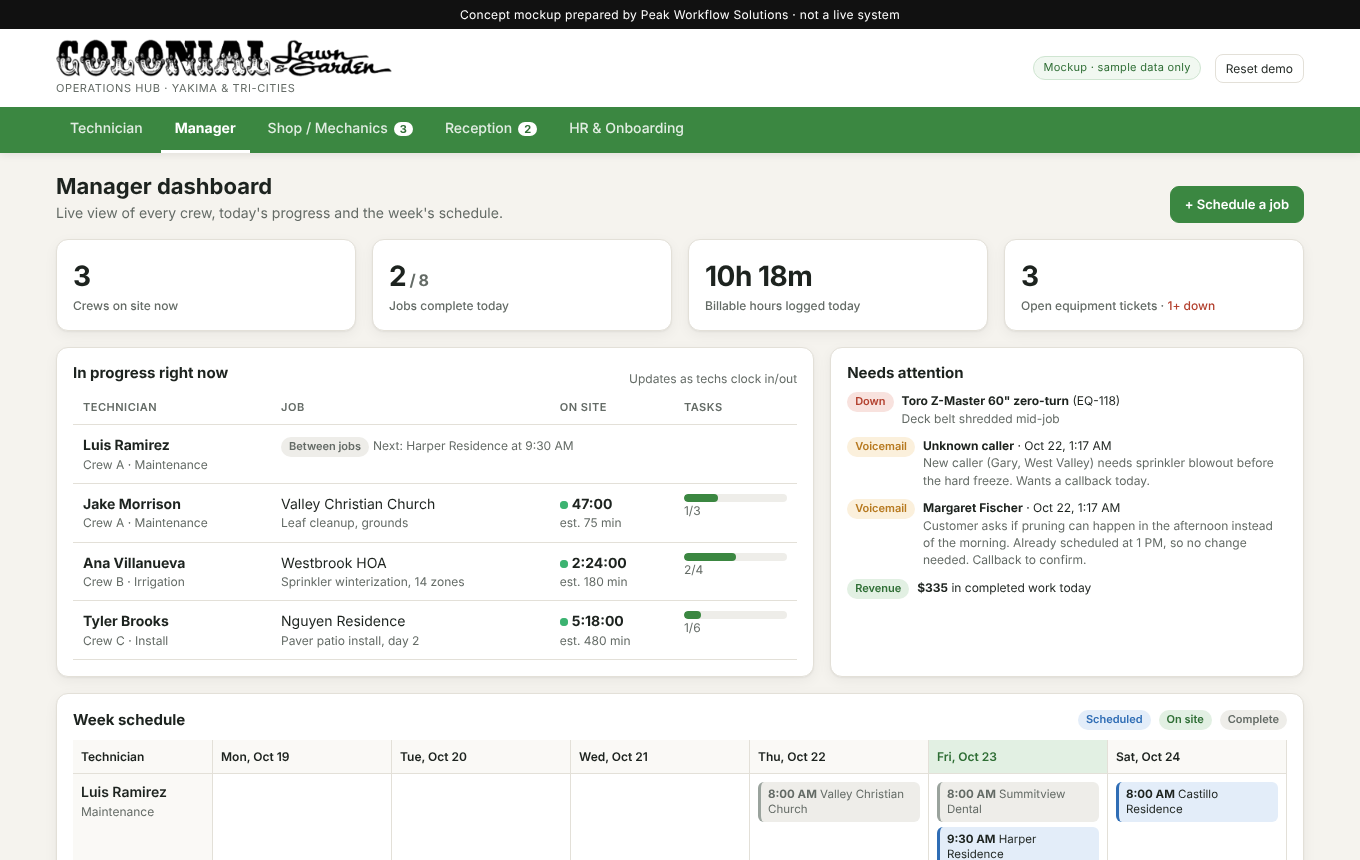
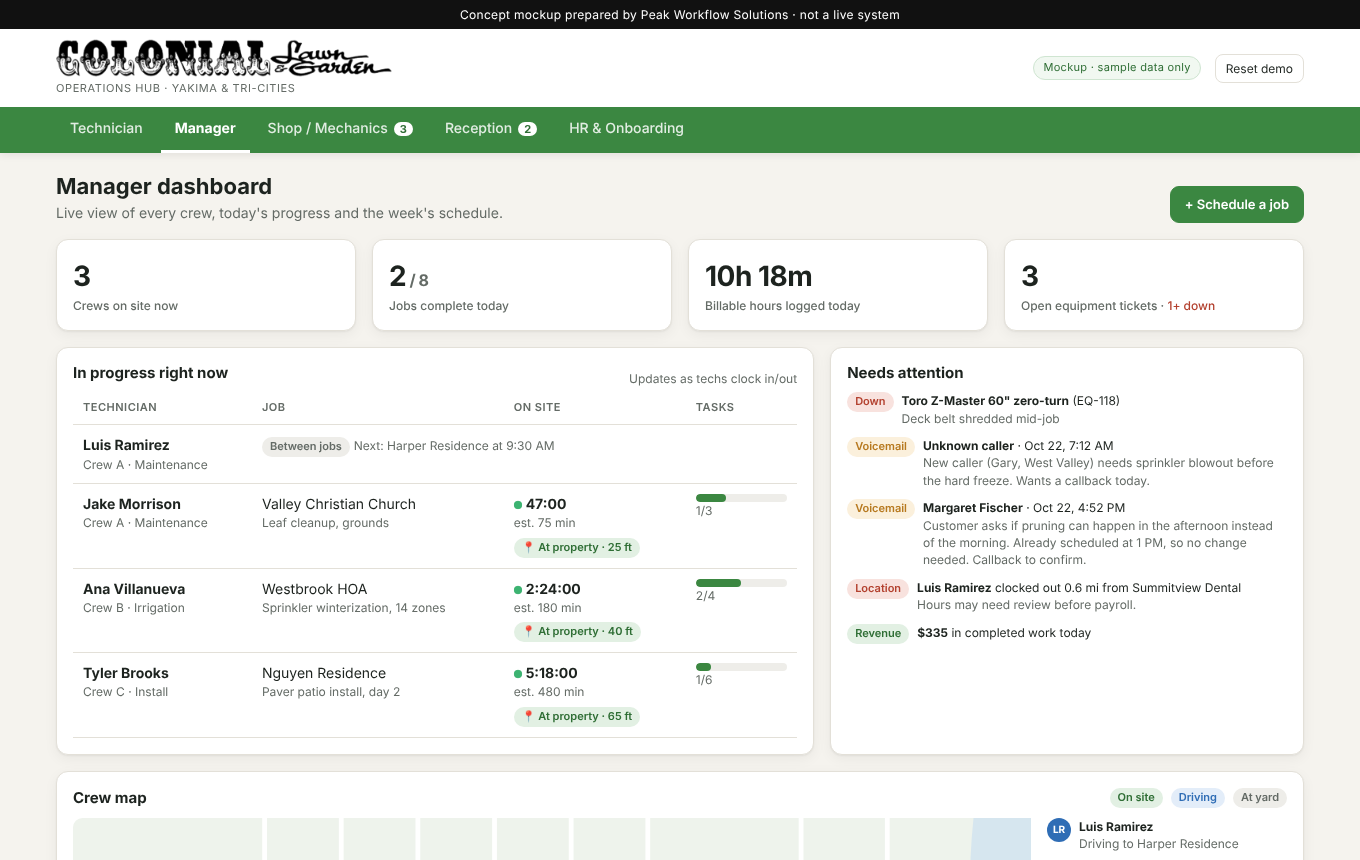
Colonial ops mockup: technician location check and crew map
Clock-in/out records a location and compares it to the property
(500 ft zone), managers get a crew map and location flags, and HR
onboarding adds a location policy acknowledgment.

Claude-Session: https://claude.ai/code/session_01D3AExL9JmpZMVhc6CVVsAk

diff --git a/projects/colonial-lawn-garden-ops/index.html b/projects/colonial-lawn-garden-ops/index.html
@@ -183,6 +183,14 @@ mark{background:#ffe79a;padding:0 1px;border-radius:2px}
 .x{background:none;border:0;font-size:22px;cursor:pointer;color:var(--muted);line-height:1}
 .toast{position:fixed;bottom:20px;left:50%;transform:translateX(-50%) translateY(20px);background:var(--green-900);color:#fff;padding:10px 16px;border-radius:10px;opacity:0;transition:.25s;z-index:60;pointer-events:none;max-width:calc(100% - 32px)}
 .toast.show{opacity:1;transform:translateX(-50%)}
+.map-layout{display:grid;grid-template-columns:minmax(0,1fr) 240px;gap:16px;align-items:start}
+@media (max-width:900px){.map-layout{grid-template-columns:minmax(0,1fr)}}
+.map-wrap svg{width:100%;height:auto;display:block}
+.map-st{font-size:13px;fill:#8b938d;font-weight:500}
+.map-lbl{font-size:14px;fill:#2b312d;font-weight:600;paint-order:stroke;stroke:#eef3ec;stroke-width:4px}
+.map-ini{font-size:12px;font-weight:700;fill:#fff;pointer-events:none}
+.map-pin{cursor:pointer}
+@media (prefers-reduced-motion:reduce){.map-pin animate{display:none}.pulse{animation:none}}
 .kv{display:grid;grid-template-columns:120px 1fr;gap:6px 12px;font-size:13px}
 .kv dt{color:var(--muted)}
 .kv dd{margin:0}
@@ -216,7 +224,14 @@ mark{background:#ffe79a;padding:0 1px;border-radius:2px}
    Everything is sample data, stored in this browser only.
    ========================================================= */
 
-const STORE_KEY = 'clg-ops-demo-v1';
+const STORE_KEY = 'clg-ops-demo-v2';
+
+/* ---------- location (schematic map units; 1 unit ≈ 26 ft) ---------- */
+const FT_PER_UNIT = 26.4, GEOFENCE_FT = 500;
+const YARD = {x:880, y:452};
+function near(p, d){ const a = Math.random()*2*Math.PI; return {x:p.x+Math.cos(a)*d, y:p.y+Math.sin(a)*d}; }
+function distFt(a,b){ return Math.hypot(a.x-b.x, a.y-b.y)*FT_PER_UNIT; }
+function fmtDist(ft){ return ft<1000 ? Math.max(5,Math.round(ft/5)*5)+' ft' : (ft/5280).toFixed(1)+' mi'; }
 const DAY = 86400000;
 
 /* ---------- date helpers ---------- */
@@ -240,7 +255,7 @@ function seed(){
   const now = Date.now();
   // Today's times anchored to the clock on the wall; falls back to "X ago" if that time hasn't happened yet.
   const at = (hhmm, ago) => { const [h,m]=hhmm.split(':').map(Number); const d=new Date(TODAY); d.setHours(h,m,0,0); return d.getTime() < now-5*60e3 ? d.getTime() : now-ago; };
-  const yest = hhmm => at(hhmm,0) - DAY;
+  const yest = hhmm => { const [h,m]=hhmm.split(':').map(Number); const d=new Date(TODAY); d.setDate(d.getDate()-1); d.setHours(h,m,0,0); return d.getTime(); };
   const callAt = hhmm => { const t = at(hhmm,-1); return t > now ? yest(hhmm) : t; };
   const techs = [
     {id:'T1', name:'Luis Ramirez',   crew:'Crew A · Maintenance', truck:'Truck 3'},
@@ -258,6 +273,8 @@ function seed(){
     C7:{name:'Valley Christian Church', contact:'Facilities: Dan Kerr', phone:'(509) 555-0195', address:'7700 W Nob Hill Blvd, Yakima', notes:'Avoid Wednesday evenings (youth group parking).', plan:'Commercial maintenance contract'},
     C8:{name:'Castillo Residence', contact:'Elena Castillo', phone:'(509) 555-0127', address:'602 Conestoga Blvd, Yakima', notes:'Asked for estimate on spring overseed.', plan:'Weekly maintenance (Apr–Oct)'},
   };
+  const POS = {C1:[600,92], C2:[505,150], C3:[625,378], C4:[225,178], C5:[478,205], C6:[680,330], C7:[232,400], C8:[170,300]};
+  for(const [k,[x,y]] of Object.entries(POS)) clients[k].pos = {x,y};
   const S = (name,price,tasks)=>({name,price,tasks});
   let jid = 1000;
   const J = (off,start,est,techId,clientId,services,extra={})=>({id:'J'+(++jid), date:dayKey(off), start, est, techId, clientId, services, status:'scheduled', clockIn:null, clockOut:null, done:[], ...extra});
@@ -284,6 +301,10 @@ function seed(){
     J(3,'08:00',60,'T2','C2',[S('Weekly commercial maintenance',140,['Mow','Blow lot'])]),
     J(3,'10:00',90,'T4','C8',[S('Spring overseed estimate walk',0,['Measure lawn','Photos for quote'])]),
   ];
+  jobs.forEach(j=>{ const p = clients[j.clientId].pos;
+    if(j.clockIn) j.inLoc = near(p, 0.8+Math.random()*2);
+    if(j.clockOut) j.outLoc = near(p, 0.8+Math.random()*2); });
+  jobs[0].outLoc = {x:clients.C2.pos.x+112, y:clients.C2.pos.y+38}; // clocked out from the road
   const equipment = [
     {id:'M-07', name:'Toro Z-Master 60" zero-turn', type:'Mower', status:'Down'},
     {id:'M-04', name:'Exmark Lazer Z 52"', type:'Mower', status:'OK'},
@@ -354,6 +375,7 @@ function seed(){
     ['dl','Driver\'s license copy + driving record check'],
     ['dt','Drug & alcohol policy acknowledgment'],
     ['uni','Uniform & PPE issued (boots, eye/ear protection)'],
+    ['gps','Location policy acknowledgment (tracked only while clocked in)'],
   ];
   const trainings = [
     ['saf','General safety orientation'],
@@ -371,7 +393,7 @@ function seed(){
     {id:'E21', name:'Marco Sandoval', role:'Landscape Technician', start:dayKey(-3), manager:'Crew A lead', paper:mk(paperwork,8), train:mk(trainings,5)},
     {id:'E22', name:'Jenna Wu', role:'Receptionist', start:dayKey(-1), manager:'Office manager', paper:mk(paperwork,5), train:Object.fromEntries(trainings.map(([k])=>[k,['saf','cs','app'].includes(k)?false:null]))},
     {id:'E23', name:'Derek Pollard', role:'Small Engine Mechanic', start:dayKey(4), manager:'Shop lead', paper:mk(paperwork,2), train:mk(trainings,0)},
-    {id:'E19', name:'Sofia Reyes', role:'Irrigation Technician', start:dayKey(-21), manager:'Crew B lead', paper:mk(paperwork,8), train:mk(trainings,9)},
+    {id:'E19', name:'Sofia Reyes', role:'Irrigation Technician', start:dayKey(-21), manager:'Crew B lead', paper:mk(paperwork,9), train:mk(trainings,9)},
   ];
   // Jenna: receptionist only needs a subset of trainings
   employees[1].train = {saf:true,cs:false,app:true};
@@ -396,6 +418,12 @@ const taskCount = j => j.services.reduce((a,s)=>a+s.tasks.length,0);
 const elapsed = j => j.clockIn ? ((j.clockOut||Date.now()) - j.clockIn) : 0;
 const statusBadge = s => ({scheduled:'<span class="badge b-blue">Scheduled</span>', in_progress:'<span class="badge b-green"><span class="dot pulse"></span>On site</span>', done:'<span class="badge b-gray">Complete</span>'}[s]);
 const prioBadge = p => `<span class="badge ${p==='High'?'b-red':p==='Medium'?'b-amber':'b-gray'}">${p}</span>`;
+function locBadge(j, which){
+  const loc = which==='out' ? j.outLoc : j.inLoc; if(!loc) return '';
+  const ft = distFt(loc, client(j.clientId).pos);
+  return ft <= GEOFENCE_FT ? `<span class="badge b-green">📍 At property · ${fmtDist(ft)}</span>` : `<span class="badge b-red">⚠ ${fmtDist(ft)} from property</span>`;
+}
+const locFlagged = j => [j.inLoc,j.outLoc].some(l=>l && distFt(l, client(j.clientId).pos) > GEOFENCE_FT);
 const eqBadge = s => `<span class="badge ${s==='Down'?'b-red':s==='OK'?'b-green':'b-amber'}">${s}</span>`;
 
 /* ---------- toast & modal ---------- */
@@ -448,9 +476,11 @@ function viewTech(){
         <li><b>Clock in</b> when the truck pulls up. The manager's live board switches that job to <i>On site</i> with a running timer.</li>
         <li><b>Check off tasks</b> as they're done. The checklist comes straight from what was sold, so nothing gets missed or done for free.</li>
         <li><b>Clock out</b> when you leave. Actual time on site goes to the timesheet next to the estimate, so the office can see which jobs are priced right.</li>
+        <li><b>Location check.</b> Clock-in and clock-out record where the phone is and compare it to the property. Managers see crews on a map, and anything over ${GEOFENCE_FT} ft from the property gets flagged. Location is shared only while clocked in.</li>
         <li><b>Equipment breaks?</b> Tap <i>Report equipment issue</i>. A ticket lands in the shop queue instantly with who, what and where.</li>
       </ol>
       <div class="note">Try it: open a scheduled job, clock in, then switch to the <b>Manager</b> tab to see it go live. Report an equipment issue, then check <b>Shop / Mechanics</b>.</div>
+      <label class="row small" style="margin-top:12px;cursor:pointer"><input type="checkbox" id="simAway" data-action="simAway" ${state.ui.simAway?'checked':''}> Demo: pretend this tech clocks in or out away from the property</label>
     </div>
   </div>`;
 }
@@ -508,14 +538,16 @@ function phoneJob(t, j){
   const taskTotal = taskCount(j);
   const pct = Math.round(j.done.length/taskTotal*100);
   let clockBlock;
-  if(j.status==='scheduled') clockBlock = `<button class="btn btn-primary btn-big" data-action="clockIn" data-id="${j.id}">Clock in · arrived on site</button>`;
-  else if(j.status==='in_progress') clockBlock = `<div class="card card-pad" style="text-align:center;margin-bottom:10px"><div class="small muted">On site since ${fmtTime(j.clockIn)}</div><div class="timer" data-live="${j.id}">${fmtDur(elapsed(j))}</div><div class="small muted">Estimate: ${j.est} min</div></div>
-      <button class="btn btn-danger btn-big" data-action="clockOut" data-id="${j.id}">Clock out · leaving site</button>`;
-  else clockBlock = `<div class="card card-pad" style="text-align:center"><span class="badge b-gray">Complete</span><div class="small muted" style="margin-top:6px">${j.clockIn?`${fmtTime(j.clockIn)} – ${fmtTime(j.clockOut)} · ${fmtHM(elapsed(j))} on site (est. ${j.est} min)`:'Completed'}</div></div>`;
+  const locating = state.ui.locating===j.id ? `<button class="btn btn-big" disabled>📍 Checking your location…</button>` : '';
+  if(j.status==='scheduled') clockBlock = locating || `<button class="btn btn-primary btn-big" data-action="clockIn" data-id="${j.id}">Clock in · arrived on site</button>`;
+  else if(j.status==='in_progress') clockBlock = `<div class="card card-pad" style="text-align:center;margin-bottom:10px"><div class="small muted">On site since ${fmtTime(j.clockIn)}</div><div class="timer" data-live="${j.id}">${fmtDur(elapsed(j))}</div><div class="small muted">Estimate: ${j.est} min</div><div style="margin-top:8px">${locBadge(j,'in')}</div></div>
+      ${locating || `<button class="btn btn-danger btn-big" data-action="clockOut" data-id="${j.id}">Clock out · leaving site</button>`}`;
+  else clockBlock = `<div class="card card-pad" style="text-align:center"><span class="badge b-gray">Complete</span><div class="small muted" style="margin-top:6px">${j.clockIn?`${fmtTime(j.clockIn)} – ${fmtTime(j.clockOut)} · ${fmtHM(elapsed(j))} on site (est. ${j.est} min)`:'Completed'}</div>${j.inLoc?`<div class="row wrap" style="justify-content:center;margin-top:8px"><span class="small muted">In</span>${locBadge(j,'in')}<span class="small muted">Out</span>${locBadge(j,'out')}</div>`:''}</div>`;
   return `
     <div class="app-head"><button class="back" data-action="closeJob">← Today's jobs</button><div class="nm">${esc(c.name)}</div><div class="small" style="opacity:.85">${fmt12(j.start)} · ${esc(c.plan)}</div></div>
     <div class="app-body">
       ${clockBlock}
+      <p class="small muted" style="margin:8px 2px 0;text-align:center">📍 Your location is shared with the office only while you're clocked in.</p>
       <div class="card card-pad" style="margin-top:12px">
         <h3>Client</h3>
         <dl class="kv"><dt>Contact</dt><dd>${esc(c.contact)}</dd><dt>Phone</dt><dd>${esc(c.phone)}</dd><dt>Address</dt><dd>${esc(c.address)}</dd></dl>
@@ -566,7 +598,7 @@ function viewMgr(){
           const over = elapsed(cur) > cur.est*60e3;
           return `<tr class="click" data-action="jobModal" data-id="${cur.id}"><td><b>${esc(t.name)}</b><div class="small muted">${esc(t.crew)}</div></td>
             <td>${esc(client(cur.clientId).name)}<div class="small muted">${esc(cur.services[0].name)}</div></td>
-            <td><span class="dot pulse"></span> <b data-live="${cur.id}">${fmtDur(elapsed(cur))}</b><div class="small ${over?'':'muted'}" style="${over?'color:var(--red)':''}">est. ${cur.est} min${over?' · over':''}</div></td>
+            <td><span class="dot pulse"></span> <b data-live="${cur.id}">${fmtDur(elapsed(cur))}</b><div class="small ${over?'':'muted'}" style="${over?'color:var(--red)':''}">est. ${cur.est} min${over?' · over':''}</div><div style="margin-top:4px">${locBadge(cur,'in')}</div></td>
             <td style="min-width:90px"><div class="progress"><i style="width:${Math.round(cur.done.length/taskCount(cur)*100)}%"></i></div><div class="small muted">${cur.done.length}/${taskCount(cur)}</div></td></tr>`;
         }).join('')}</tbody></table></div>
     </div>
@@ -575,11 +607,13 @@ function viewMgr(){
       <div class="stack">
         ${openT.filter(t=>t.priority==='High').map(t=>`<div class="row" style="align-items:flex-start"><span class="badge b-red">Down</span><div class="small"><b>${esc(equip(t.equipId).name)}</b> (${t.id})<br><span class="muted">${esc(t.title)}</span></div></div>`).join('')}
         ${state.calls.filter(c=>c.type==='voicemail'&&!c.handled).map(c=>`<div class="row" style="align-items:flex-start"><span class="badge b-amber">Voicemail</span><div class="small"><b>${esc(c.caller)}</b> · ${fmtDateTime(c.ts)}<br><span class="muted">${esc(c.summary)}</span></div></div>`).join('')}
+        ${today.filter(locFlagged).map(j=>{ const bad = j.outLoc && distFt(j.outLoc, client(j.clientId).pos)>GEOFENCE_FT ? 'out' : 'in'; return `<div class="row" style="align-items:flex-start"><span class="badge b-red">Location</span><div class="small"><b>${esc(tech(j.techId).name)}</b> clocked ${bad} ${fmtDist(distFt(bad==='out'?j.outLoc:j.inLoc, client(j.clientId).pos))} from ${esc(client(j.clientId).name)}<br><span class="muted">Hours may need review before payroll.</span></div></div>`; }).join('')}
         ${today.filter(j=>j.status==='in_progress' && elapsed(j)>j.est*60e3).map(j=>`<div class="row" style="align-items:flex-start"><span class="badge b-red">Over estimate</span><div class="small"><b>${esc(client(j.clientId).name)}</b><br><span class="muted">${esc(tech(j.techId).name)} · est. ${j.est} min</span></div></div>`).join('')}
         <div class="row" style="align-items:flex-start"><span class="badge b-green">Revenue</span><div class="small"><b>${money(revenue)}</b> in completed work today</div></div>
       </div>
     </div>
   </div>
+  ${crewMap(today)}
   <div class="card card-pad">
     <div class="row between wrap" style="margin-bottom:10px"><h3 style="margin:0">Week schedule</h3>
       <div class="row small"><span class="badge b-blue">Scheduled</span><span class="badge b-green">On site</span><span class="badge b-gray">Complete</span></div></div>
@@ -592,11 +626,52 @@ function viewMgr(){
   </div>`;
 }
 
+function techWhere(t, today){
+  const mine = today.filter(j=>j.techId===t.id);
+  const cur = mine.find(j=>j.status==='in_progress');
+  if(cur) return {p:cur.inLoc||client(cur.clientId).pos, kind:'on', job:cur, label:'On site · '+client(cur.clientId).name};
+  const last = mine.filter(j=>j.status==='done'&&j.clockOut).sort((a,b)=>b.clockOut-a.clockOut)[0];
+  const next = mine.filter(j=>j.status==='scheduled').sort((a,b)=>a.start.localeCompare(b.start))[0];
+  if(last && next){ const a=client(last.clientId).pos, b=client(next.clientId).pos; return {p:{x:(a.x+b.x)/2,y:(a.y+b.y)/2}, kind:'drive', job:next, label:'Driving to '+client(next.clientId).name}; }
+  if(next) return {p:{x:YARD.x-14+t.id.charCodeAt(1)%4*9,y:YARD.y-6}, kind:'yard', job:next, label:'At the yard · next '+client(next.clientId).name};
+  return {p:{x:YARD.x+8,y:YARD.y+8}, kind:'yard', job:null, label:'Done for the day'};
+}
+function crewMap(today){
+  const H = [['Englewood Ave',92],['Summitview Ave',150],['Lincoln Ave',205],['Yakima Ave',258],['Tieton Dr',330],['Nob Hill Blvd',400],['Washington Ave',470]];
+  const V = [['16th Ave',850],['24th Ave',760],['40th Ave',600],['48th Ave',520],['56th Ave',440],['64th Ave',360],['72nd Ave',280],['80th Ave',200]];
+  const sites = [...new Set(today.map(j=>j.clientId))];
+  const where = state.techs.map(t=>({t, ...techWhere(t,today)}));
+  const color = {on:'var(--green-700)', drive:'var(--blue)', yard:'#7a807c'};
+  return `<div class="card card-pad" style="margin-bottom:16px">
+    <div class="row between wrap" style="margin-bottom:10px"><h3 style="margin:0">Crew map</h3>
+      <div class="row small wrap"><span class="badge b-green">On site</span><span class="badge b-blue">Driving</span><span class="badge b-gray">At yard</span></div></div>
+    <div class="map-layout">
+      <div class="map-wrap"><svg viewBox="0 0 1000 540" role="img" aria-label="Schematic map of Yakima with crew locations">
+        <rect width="1000" height="540" rx="10" fill="#eef3ec"/>
+        <path d="M940 0 C 925 140, 960 300, 930 540 L1000 540 L1000 0Z" fill="#d6e6ef"/>
+        ${H.map(([n,y])=>`<line x1="0" y1="${y}" x2="1000" y2="${y}" stroke="#fff" stroke-width="${n.includes('Ave')&&!n.includes('Summitview')?5:8}"/><text x="12" y="${y-6}" class="map-st">${n}</text>`).join('')}
+        ${V.map(([n,x])=>`<line x1="${x}" y1="0" x2="${x}" y2="540" stroke="#fff" stroke-width="5"/><text x="${x+5}" y="530" class="map-st">${n}</text>`).join('')}
+        <g><rect x="${YARD.x-26}" y="${YARD.y-22}" width="52" height="44" rx="6" fill="#fff" stroke="#9aa39d"/><text x="${YARD.x}" y="${YARD.y+36}" text-anchor="middle" class="map-lbl">Shop / yard</text></g>
+        ${sites.map(id=>{ const c=client(id); return `<circle cx="${c.pos.x}" cy="${c.pos.y}" r="${GEOFENCE_FT/FT_PER_UNIT}" fill="rgba(59,135,65,.10)" stroke="rgba(59,135,65,.35)" stroke-dasharray="3 3"/><circle cx="${c.pos.x}" cy="${c.pos.y}" r="4" fill="#5c635e"/><text x="${c.pos.x+10}" y="${c.pos.y-10}" class="map-lbl">${esc(c.name)}</text>`; }).join('')}
+        ${where.map(w=>`<g class="map-pin" ${w.job?`data-action="jobModal" data-id="${w.job.id}"`:''}>
+          ${w.kind==='on'?`<circle cx="${w.p.x}" cy="${w.p.y}" r="14" fill="none" stroke="${color.on}" stroke-width="2"><animate attributeName="r" values="14;26" dur="1.8s" repeatCount="indefinite"/><animate attributeName="opacity" values=".8;0" dur="1.8s" repeatCount="indefinite"/></circle>`:''}
+          <circle cx="${w.p.x}" cy="${w.p.y}" r="15" fill="${color[w.kind]}" stroke="#fff" stroke-width="3"/>
+          <text x="${w.p.x}" y="${w.p.y+4}" text-anchor="middle" class="map-ini">${initials(w.t.name)}</text></g>`).join('')}
+      </svg></div>
+      <div class="stack">
+        ${where.map(w=>`<div class="row" style="align-items:flex-start;${w.job?'cursor:pointer':''}" ${w.job?`data-action="jobModal" data-id="${w.job.id}"`:''}><span class="av" style="background:${color[w.kind]}">${initials(w.t.name)}</span><div class="small"><b>${esc(w.t.name)}</b><br><span class="muted">${esc(w.label)}</span></div></div>`).join('')}
+        <p class="small muted" style="margin:6px 0 0">Schematic map with sample positions. The real build uses a street map and the phone's GPS. Dashed circles show the ${GEOFENCE_FT} ft zone around each property.</p>
+      </div>
+    </div>
+  </div>`;
+}
+
 function jobModalHTML(j){
   const c = client(j.clientId), t = tech(j.techId);
   return `<div class="modal-head"><div><h3>${esc(c.name)}</h3><div class="small muted">${fmtDay(j.date)} · ${fmt12(j.start)} · ${esc(t.name)}</div></div><button class="x" data-action="closeModal">×</button></div>
   <div class="modal-body stack">
     <div>${statusBadge(j.status)} ${j.clockIn?`<span class="small muted">Clocked in ${fmtTime(j.clockIn)}${j.clockOut?` · out ${fmtTime(j.clockOut)} · ${fmtHM(elapsed(j))}`:''} (est. ${j.est} min)</span>`:''}</div>
+    ${j.inLoc?`<div class="row wrap"><span class="small muted">Clock-in</span>${locBadge(j,'in')}${j.outLoc?`<span class="small muted">Clock-out</span>${locBadge(j,'out')}`:''}</div>`:''}
     <dl class="kv"><dt>Contact</dt><dd>${esc(c.contact)} · ${esc(c.phone)}</dd><dt>Address</dt><dd>${esc(c.address)}</dd><dt>Plan</dt><dd>${esc(c.plan)}</dd><dt>Site notes</dt><dd>${esc(c.notes)}</dd></dl>
     <div><b>Services</b>${j.services.map(s=>`<div class="svc"><span>${esc(s.name)}</span><b>${s.price?money(s.price):'Project'}</b></div>`).join('')}
       <div class="svc"><b>Total</b><b>${jobTotal(j)?money(jobTotal(j)):'Per project contract'}</b></div></div>
@@ -787,8 +862,8 @@ document.addEventListener('click', e=>{
     case 'openJob': ui.techJob = id; break;
     case 'closeJob': ui.techJob = null; ui.techTab='today'; break;
     case 'techTab': ui.techTab = el.dataset.tab; if(el.dataset.tab!=='report') ui.techJob=null; else ui.reportFrom = ui.techJob; ui.techJob = null; break;
-    case 'clockIn': { const j=job(id); const other=state.jobs.find(x=>x.techId===j.techId&&x.status==='in_progress'); if(other){ toast('Clock out of '+client(other.clientId).name+' first'); return; } j.status='in_progress'; j.clockIn=Date.now(); toast('Clocked in at '+fmtTime(j.clockIn)); break; }
-    case 'clockOut': { const j=job(id); const left=taskCount(j)-j.done.length; j.status='done'; j.clockOut=Date.now(); toast('Clocked out · '+fmtHM(elapsed(j))+' on site'+(left?` · ${left} task${left>1?'s':''} left unchecked`:'')); break; }
+    case 'clockIn': { const j=job(id); const other=state.jobs.find(x=>x.techId===j.techId&&x.status==='in_progress'); if(other){ toast('Clock out of '+client(other.clientId).name+' first'); return; } locate(j, ()=>{ j.status='in_progress'; j.clockIn=Date.now(); j.inLoc=fakeFix(j); toast('Clocked in at '+fmtTime(j.clockIn)+(distFt(j.inLoc,client(j.clientId).pos)>GEOFENCE_FT?' · flagged: away from property':'')); }); return; }
+    case 'clockOut': { const j=job(id); const left=taskCount(j)-j.done.length; locate(j, ()=>{ j.status='done'; j.clockOut=Date.now(); j.outLoc=fakeFix(j); toast('Clocked out · '+fmtHM(elapsed(j))+' on site'+(left?` · ${left} task${left>1?'s':''} left unchecked`:'')); }); return; }
     case 'toggleTask': { const j=job(id); const k=el.dataset.k; j.done = j.done.includes(k)? j.done.filter(x=>x!==k) : [...j.done,k]; break; }
     case 'submitReport': {
       const title=document.getElementById('rTitle').value.trim(); if(!title){ toast('Describe what\'s wrong'); return; }
@@ -830,6 +905,7 @@ document.addEventListener('click', e=>{
 
 document.addEventListener('change', e=>{
   const el = e.target; const a = el.dataset.action; if(!a) return;
+  if(a==='simAway'){ state.ui.simAway = el.checked; save(); return; }
   if(a==='techPick'){ state.ui.techId=el.value; state.ui.techJob=null; state.ui.techTab='today'; }
   else if(a==='callFilter'){ state.ui.callFilter=el.value; }
   else if(a==='reassign'){ const j=job(el.dataset.id); j.techId=el.value; toast('Reassigned to '+tech(el.value).name); closeModal(); }
@@ -846,6 +922,10 @@ document.addEventListener('input', e=>{
   clearTimeout(searchT);
   searchT = setTimeout(()=>{ state.ui.search=e.target.value; const pos=e.target.selectionStart; render(); const s=document.getElementById('callSearch'); s.focus(); s.setSelectionRange(pos,pos); }, 200);
 });
+
+/* simulated GPS fix: a moment to "locate", then a point near (or away from) the property */
+function fakeFix(j){ return near(client(j.clientId).pos, state.ui.simAway ? 45+Math.random()*60 : 0.8+Math.random()*2.5); }
+function locate(j, done){ state.ui.locating = j.id; render(); setTimeout(()=>{ state.ui.locating = null; done(); render(); }, 900); }
 
 /* live timers */
 setInterval(()=>{

diff --git a/projects/colonial-lawn-garden-ops/README.md b/projects/colonial-lawn-garden-ops/README.md
@@ -18,6 +18,16 @@ Open [index.html](index.html) in a browser. It runs from one file and saves demo
 | Reception | Call log | Calls and voicemails with recording, transcript and AI summary, filed by receptionist ID (REC-01, REC-02…), full-text search across transcripts, mark voicemails returned |
 | HR | Onboarding | New hires with paperwork + training checklists templated by role, progress per person |
 
+## Technician location
+
+- **Location check at clock-in/out:** the phone's location is recorded and compared to the property. Anything over 500 ft away is flagged on the manager's "needs attention" list so hours can be reviewed before payroll.
+- **Crew map:** managers see who's on site, who's driving to the next job, and who's at the yard. The mockup uses a schematic map of Yakima with sample positions; the real build uses a street map.
+- **Only while clocked in:** location is never collected off the clock, and every tech signs a location policy acknowledgment during onboarding.
+
+Real-build notes:
+- A web app can read location at clock-in/out and while it's open on screen. Continuous background tracking (e.g. a breadcrumb trail all day) needs a native app or GPS units in the trucks. Clock-in/out checks are the simplest place to start.
+- Techs on personal phones are the main privacy concern. Tracking only while clocked in, telling employees exactly what's recorded, and putting it in writing keeps it fair. Have the company review its policy with whoever handles its HR or legal questions.
+
 ## The demo story (how to pitch it)
 
 The pieces are connected, which is the main selling point:
